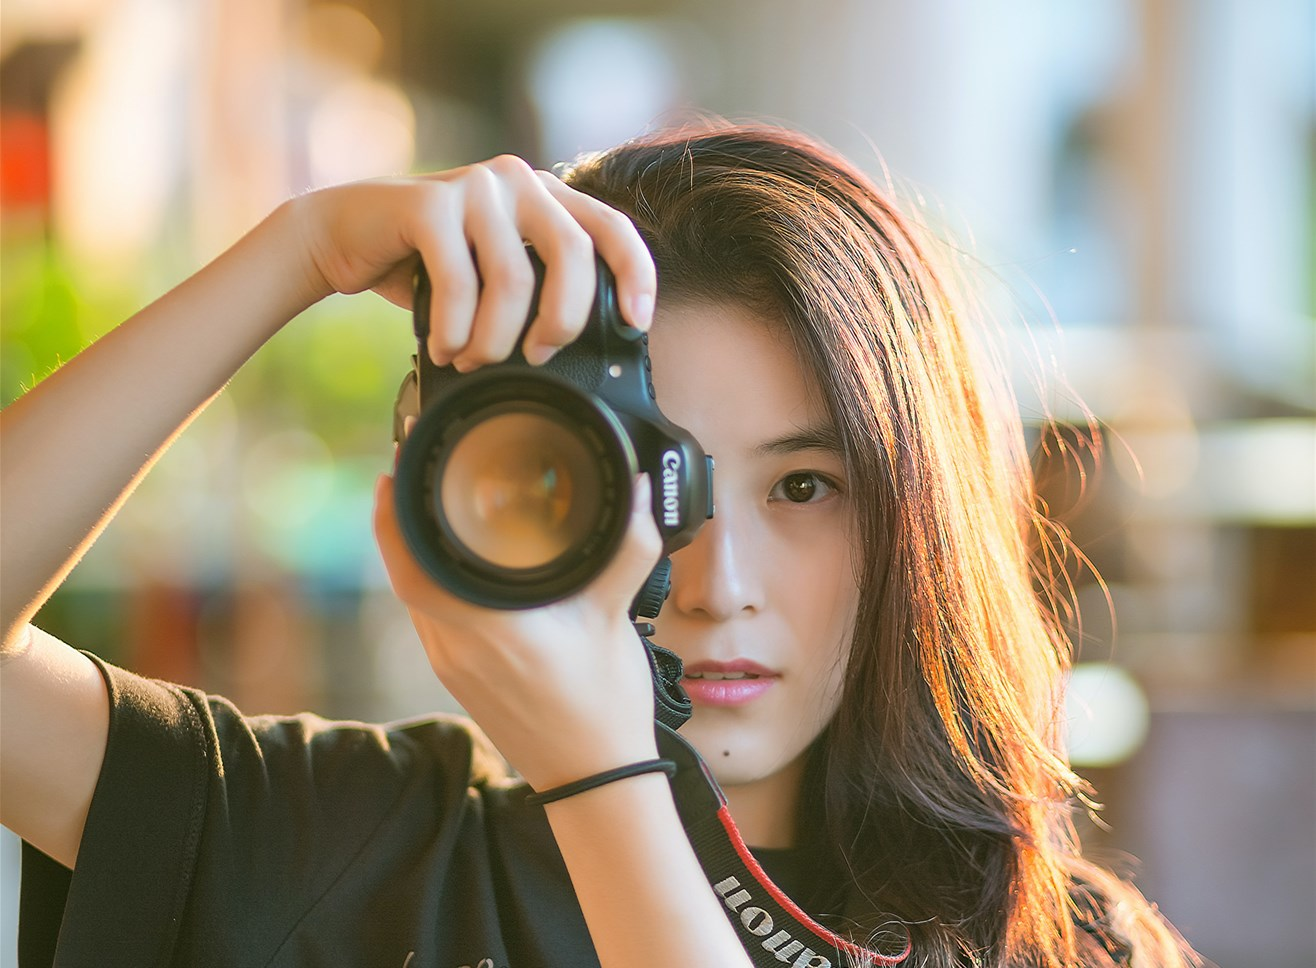
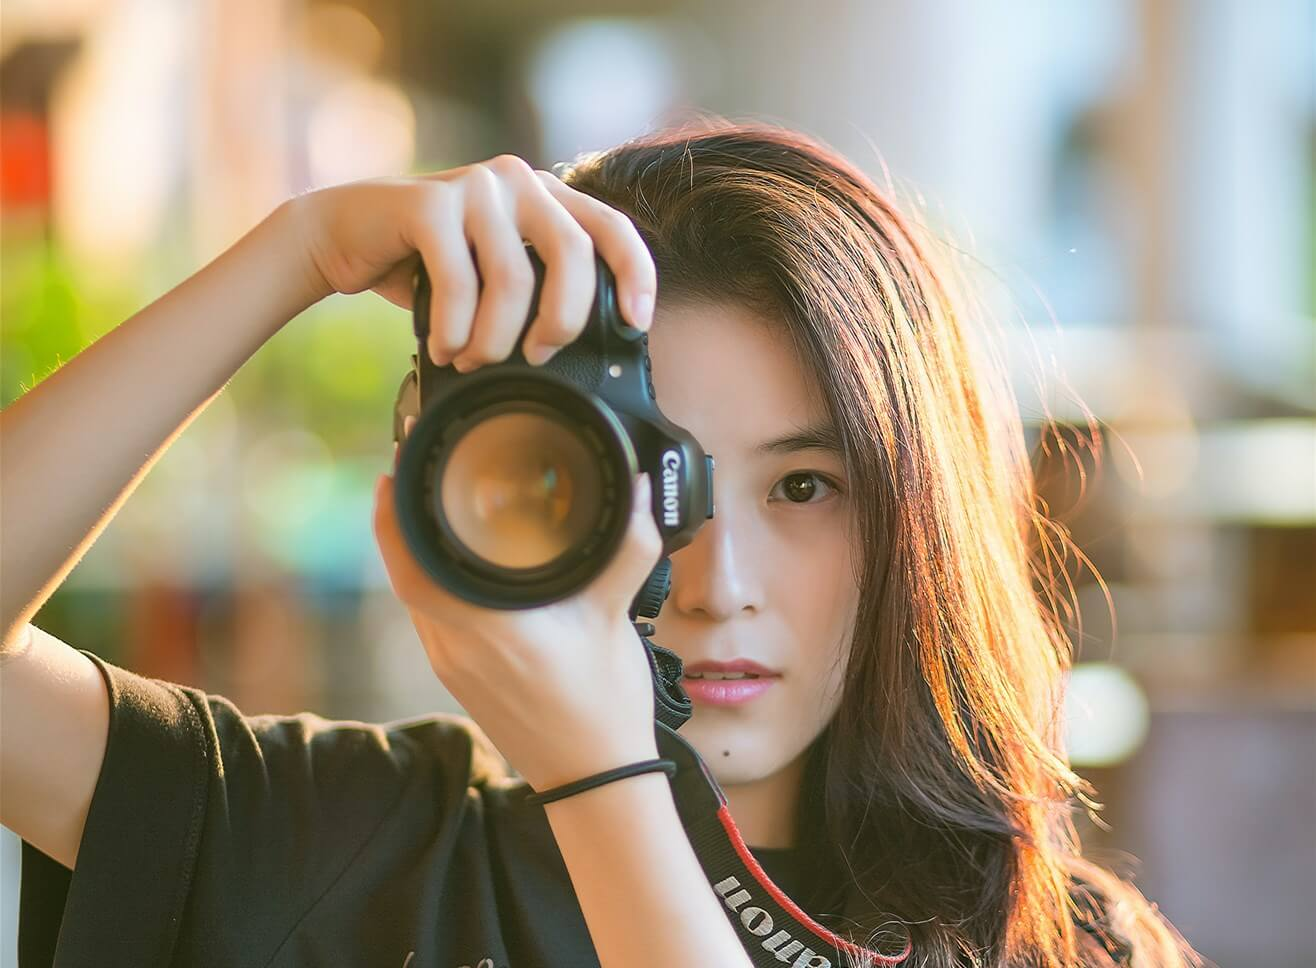
壓縮 scroll-effect/clip-path 中的圖片

diff --git a/scroll-effect/圖片壓縮.md b/scroll-effect/圖片壓縮.md
@@ -1,0 +1,13 @@
+# 圖片壓縮
+
+有時 1024 * 768 的圖片 , 檔案大小莫名的大 ( ex : 1 GB ) , 
+
+這時我們就可以使用 image-compress 服務 , 幫我們在圖片沒失真的前提下做瘦身 ,
+
+那有哪些網站提供 "圖片壓縮" 的服務呢 ?
+
+- [tinypng](https://tinypng.com/)
+
+[![tinypng 圖片](https://i.imgur.com/SODV2kT.png)](https://tinypng.com/)
+
+- [motimize](https://github.com/motivast/motimize)
